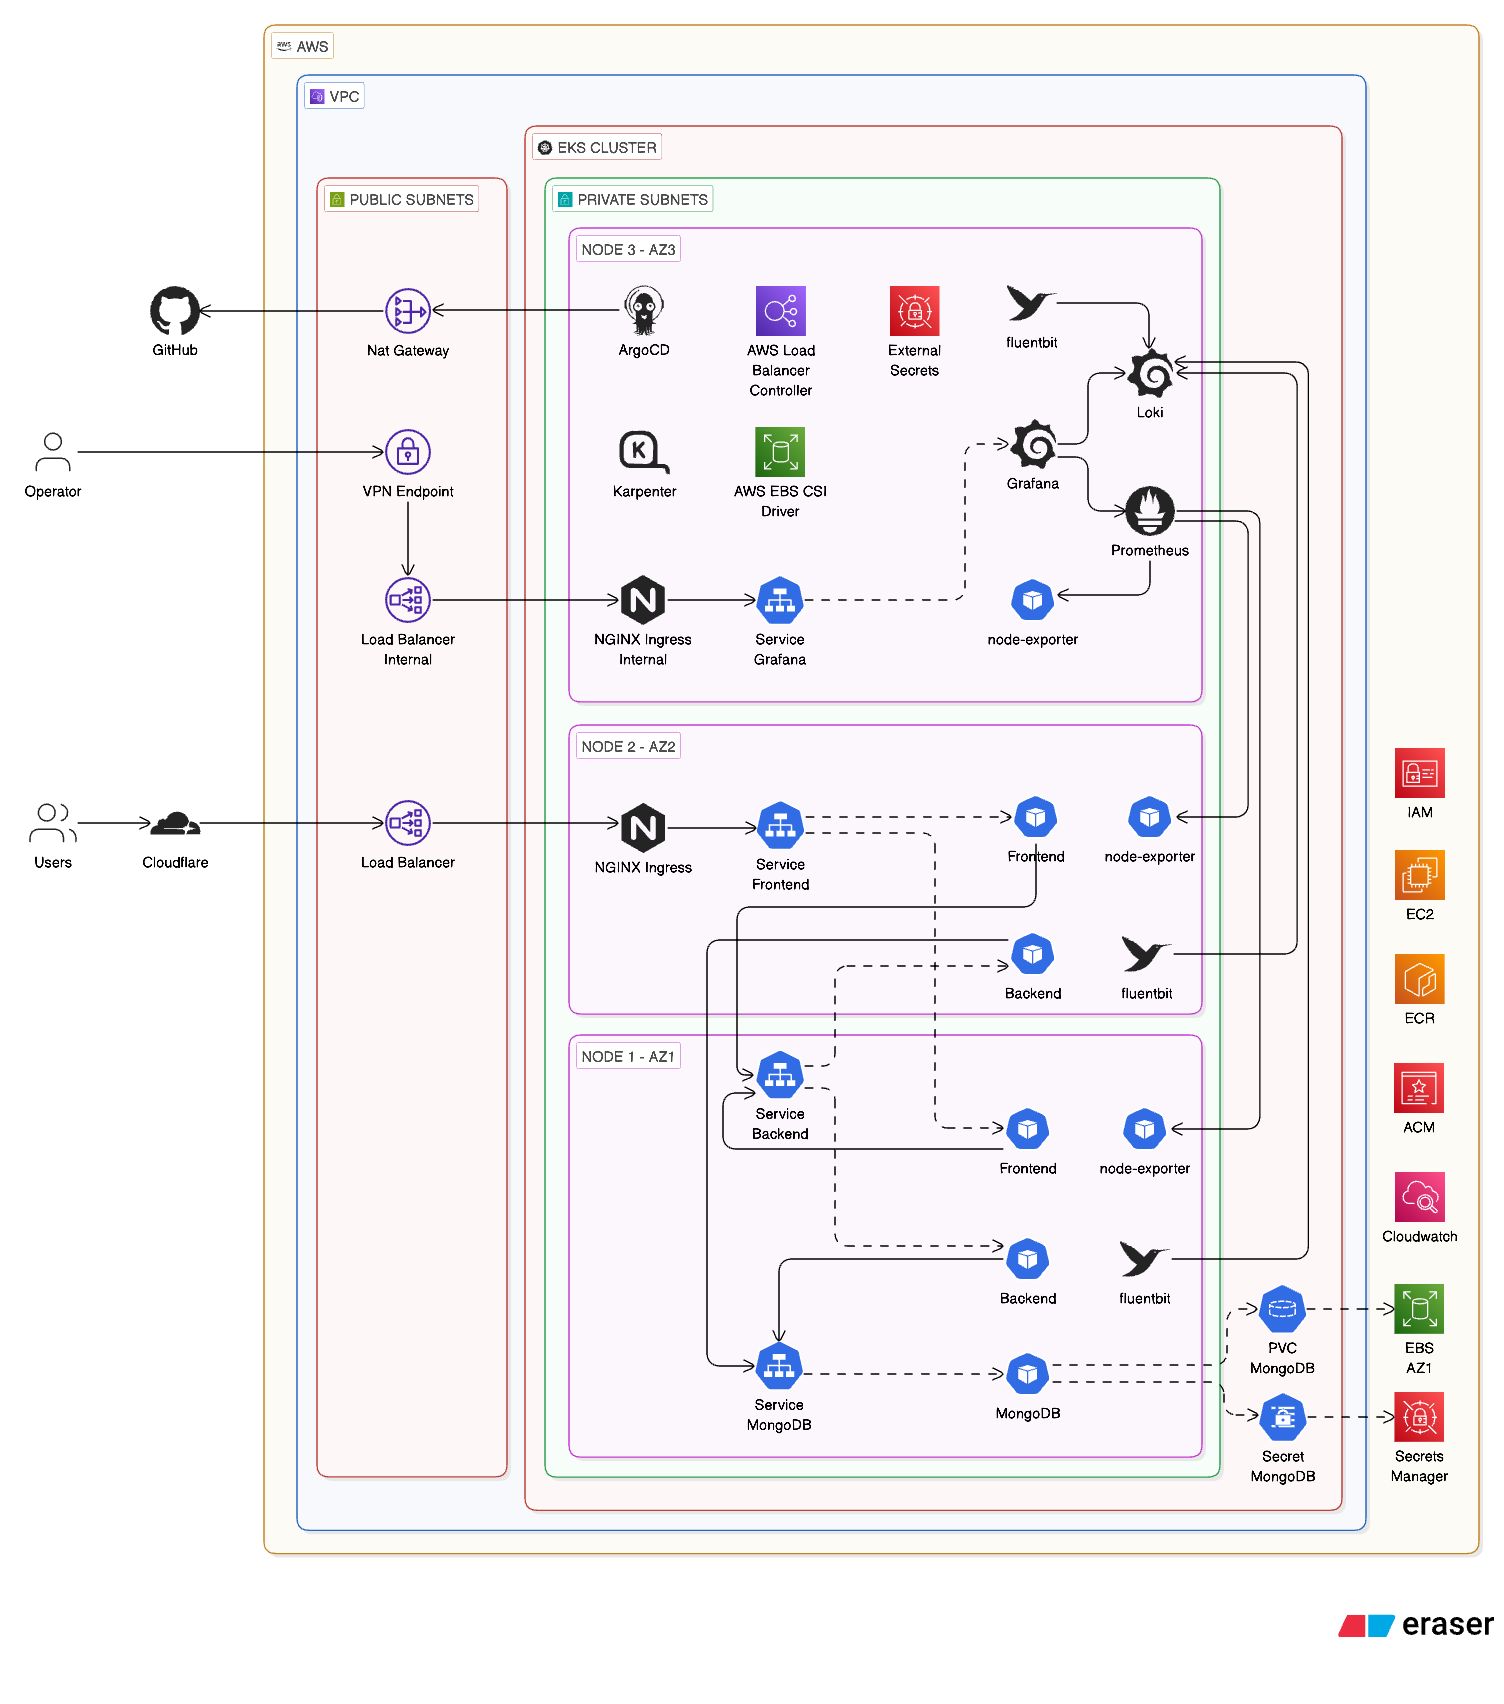
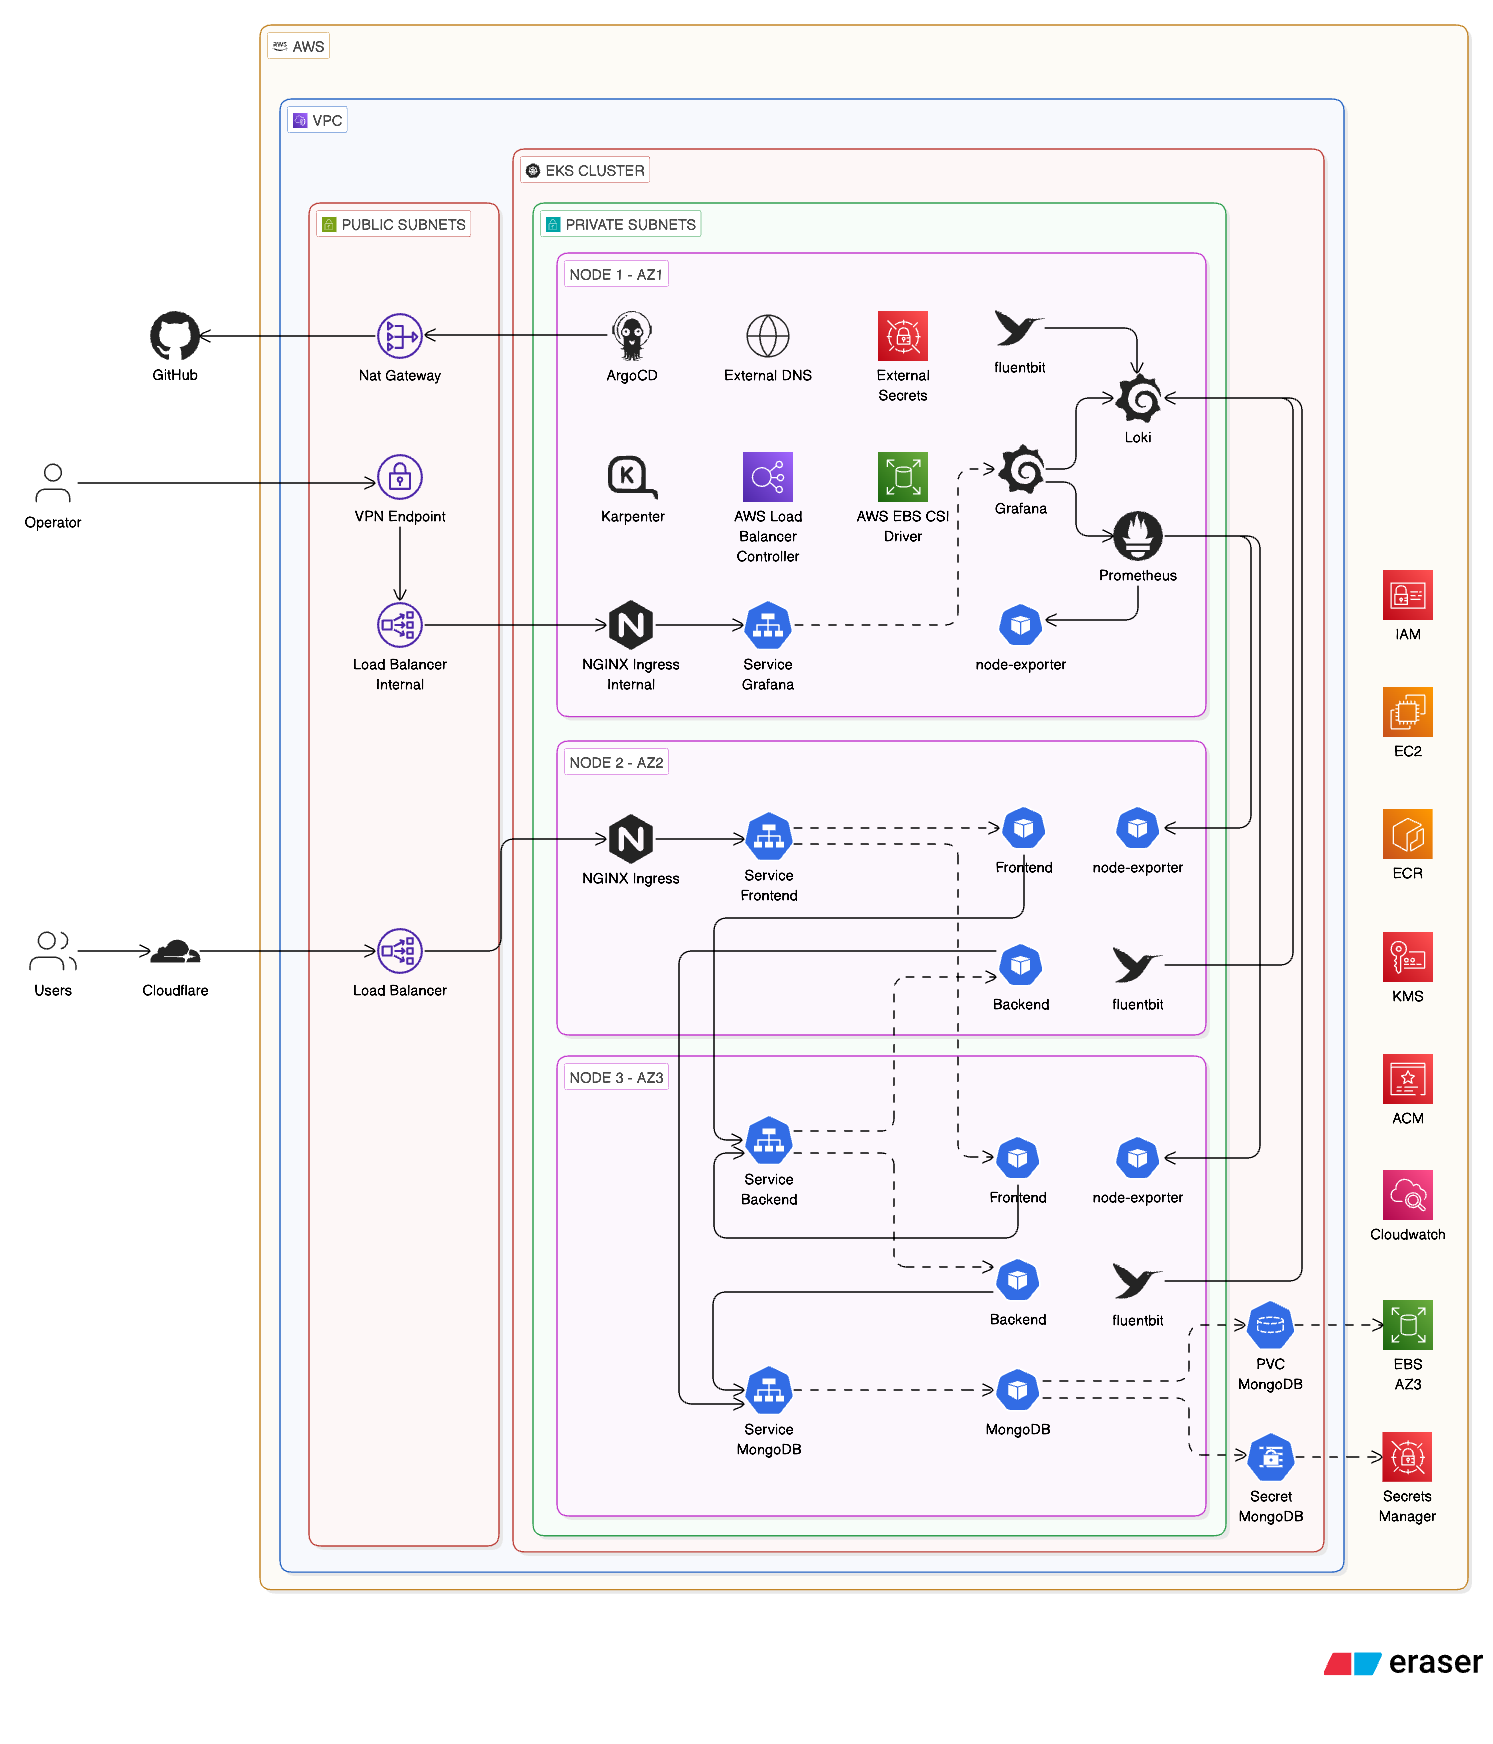
doc: include terraform

diff --git a/README.md b/README.md
@@ -8,6 +8,7 @@ The implementation is centered on portability:
 - `services/hackathon-starter-backend` exposes the companion service on port `8080`.
 - MongoDB provides application persistence and session storage.
 - `docker-compose.yml` provides a fast local container runtime.
+- `terraform/` provisions the AWS network and EKS foundation used by the cloud deployment path.
 - `k8s/helm` is a reusable Helm chart parameterized by per-service values files.
 - `.github/workflows` builds, tests, pushes, and deploys each service independently to EKS.
 
@@ -41,6 +42,8 @@ The main design choice was to keep the delivery path consistent across environme
   - `docker-compose`: starts MongoDB, backend, and frontend locally.
   - `minikube`: starts a cluster, enables ingress, installs MongoDB from Bitnami, and deploys both services through Helm.
 - `cleanup.sh` tears down either the Compose stack or the Minikube cluster.
+- `terraform/vpc` provisions the base AWS networking layer.
+- `terraform/eks-karpenter` provisions the EKS cluster, bootstrap managed node group, and Karpenter IAM resources.
 - `k8s/helm/templates` defines a generic Deployment, Service, and optional Ingress.
 - `k8s/values-backend.yaml` and `k8s/values-frontend.yaml` inject image names, ports, and service-specific environment variables.
 - `.github/workflows/deploy-backend.yml` and `.github/workflows/deploy-frontend.yml` run `npm ci`, lint, tests, container build/push, a Trivy scan, and `helm upgrade --install` against EKS.
@@ -56,6 +59,9 @@ The main design choice was to keep the delivery path consistent across environme
 ├── deploy.sh
 ├── cleanup.sh
 ├── docs/diagrams/
+├── terraform/
+│   ├── vpc/
+│   └── eks-karpenter/
 ├── k8s/
 │   ├── helm/
 │   ├── values-backend.yaml
@@ -75,6 +81,7 @@ The main design choice was to keep the delivery path consistent across environme
 - Node.js `24.13.0+` if you want to run the apps outside containers
 - Access to Docker Hub for image publishing
 - Access to an AWS account and an existing EKS cluster for the CI/CD deployment path
+- Terraform `>= 1.5.7` if you want to provision the AWS infrastructure from this repository
 
 Windows is not directly handled by the scripts. The practical option is WSL2 with Docker and Kubernetes tooling installed inside Linux.
 
@@ -179,6 +186,8 @@ Expected access pattern:
 
 Pushes to `main` trigger per-service workflows when the changed files affect that service, the shared chart, or the corresponding values file.
 
+The workflows deploy application releases into an existing EKS cluster. They do not provision AWS infrastructure themselves. That infrastructure can be created from the Terraform modules in `terraform/`.
+
 Repository configuration required:
 
 - GitHub secrets:
@@ -203,9 +212,51 @@ Workflow behavior:
 8. Update kubeconfig for EKS.
 9. Run `helm upgrade --install` with the new image tag.
 
+#### 5. Provision AWS infrastructure with Terraform
+
+The repository contains two Terraform stacks:
+
+- `terraform/vpc`: creates the shared VPC, public subnets, private subnets, and intra subnets in `ap-southeast-1`
+- `terraform/eks-karpenter`: creates the EKS cluster, a bootstrap managed node group, and the Karpenter IAM resources
+
+Current assumptions baked into the Terraform code:
+
+- remote state is stored in S3 bucket `home-assignment-terraform-backend`
+- the region is `ap-southeast-1`
+- `terraform/eks-karpenter` reads VPC outputs from the `terraform/vpc` remote state
+- the EKS Kubernetes version inside Terraform is currently set in the module itself and is separate from the Minikube `K8S_VERSION` in `config.yaml`
+
+Typical apply sequence:
+
+```bash
+cd terraform/vpc
+terraform init
+terraform plan
+terraform apply
+```
+
+```bash
+cd terraform/eks-karpenter
+terraform init
+terraform plan
+terraform apply
+```
+
+After cluster creation:
+
+```bash
+aws eks --region ap-southeast-1 update-kubeconfig --name ex-eks-karpenter
+```
+
+Notes:
+
+- The EKS Terraform stack creates IAM resources for Karpenter, but it does not install the Karpenter Helm chart.
+- The EKS Terraform stack also does not install the AWS Load Balancer Controller or the EBS CSI driver.
+- Detailed cluster bootstrap instructions live in `terraform/eks-karpenter/README.md`.
+
 ## Configuration
 
-Configuration exists at three layers: workstation bootstrap, container/runtime environment, and Kubernetes release settings.
+Configuration exists at four layers: workstation bootstrap, Terraform infrastructure, container/runtime environment, and Kubernetes release settings.
 
 ### Root `config.yaml`
 
@@ -217,6 +268,21 @@ This file controls the helper scripts.
 | `DOCKERHUB_TOKEN` | `build.sh` | Enables non-interactive Docker Hub login. If empty, login becomes interactive. |
 | `TERRAFORM_VERSION` | `setup.sh` | Version installed on Linux workstations. |
 | `K8S_VERSION` | `deploy.sh` | Kubernetes version passed to `minikube start`. |
+
+### Terraform configuration
+
+Terraform-specific configuration currently lives in the module directories rather than in `config.yaml`.
+
+Important behavior:
+
+| Location | Effect |
+| --- | --- |
+| `terraform/vpc/versions.tf` | Pins Terraform/provider requirements and configures S3 remote state at key `vpc.tfstate`. |
+| `terraform/vpc/main.tf` | Creates the base VPC in `ap-southeast-1`, including public, private, and intra subnets plus NAT. |
+| `terraform/eks-karpenter/versions.tf` | Pins Terraform/provider requirements and configures S3 remote state at key `eks-karpenter.tfstate`. |
+| `terraform/eks-karpenter/main.tf` | Creates the EKS control plane, bootstrap node group, and Karpenter IAM resources. |
+| `terraform/eks-karpenter/main.tf` `kubernetes_version` | Controls the EKS cluster version for AWS. This is separate from local Minikube versioning. |
+| `terraform/eks-karpenter/data.tf` | Reads the VPC outputs from remote state, so the VPC stack must exist first. |
 
 ### Runtime environment variables
 
